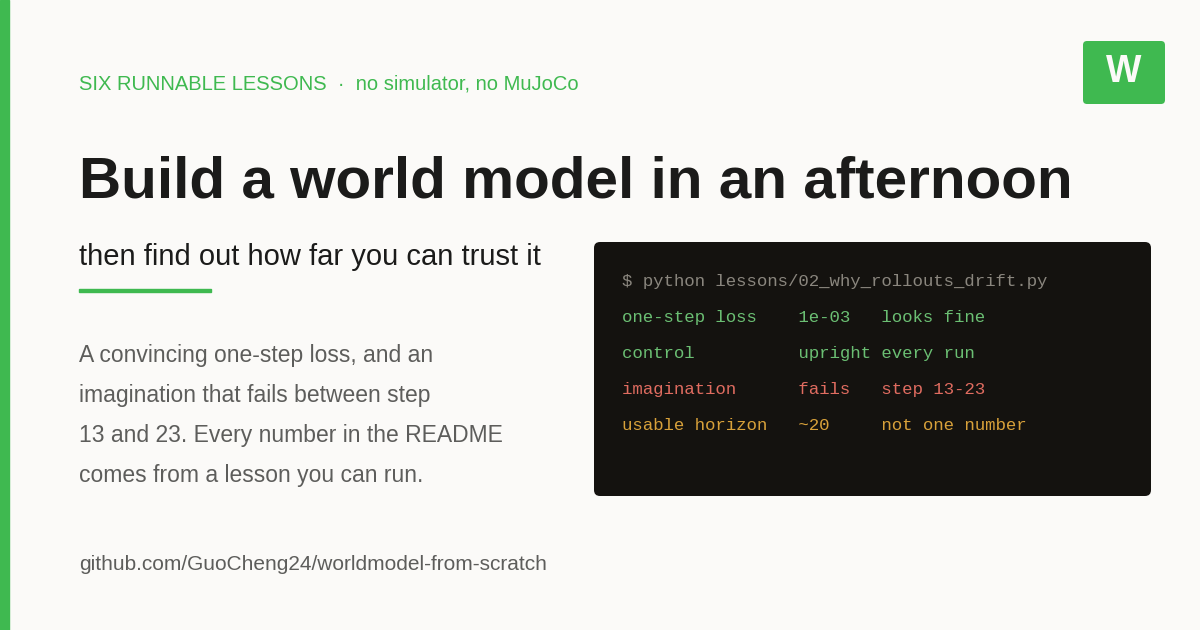
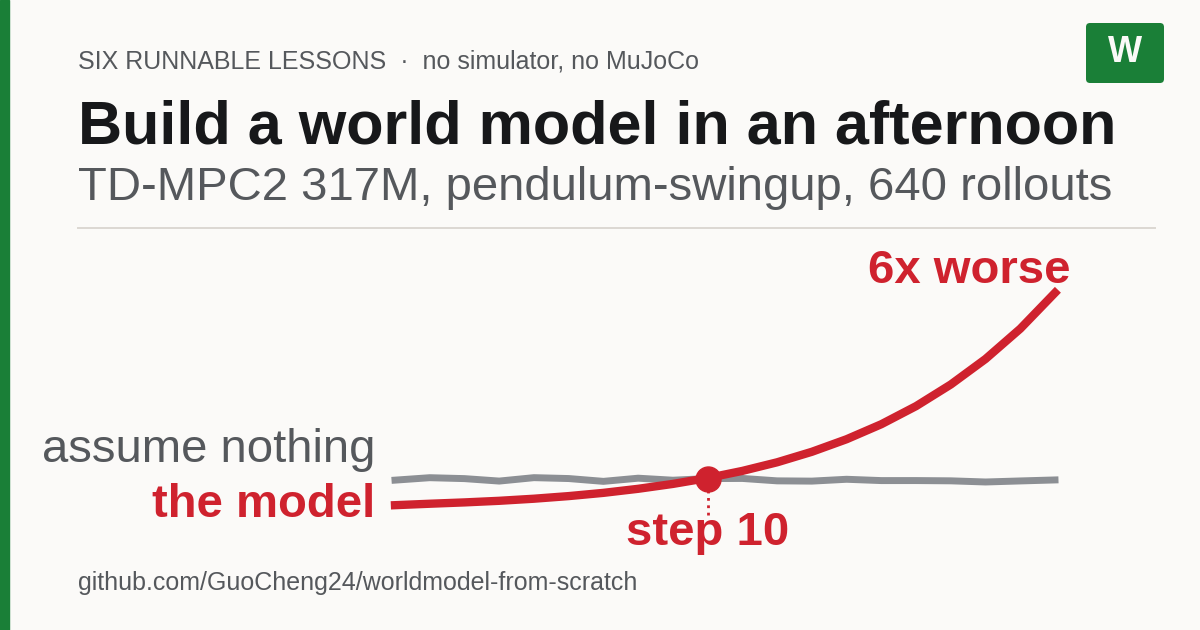
Put the lesson on the card: the curve that crosses the do-nothing baseline
The card was a screenshot of a lesson's output, unreadable at the 360 px a
Slack unfurl gives a card. It now draws what the lessons are about - a model
that starts far better than assuming nothing changes and is six times worse
than that by step twenty, crossing at step ten.

Both curves are medians over the 640 rollouts in
integrations/tdmpc2/results_mt30-317M.npz, which is committed here, so the
card is drawn from the same data as the README's figure rather than retyped.
The crossing step is found rather than written down, and the generator exits
if the model never becomes worse than the baseline, which would mean the
sentence on the card had stopped being true.

diff --git a/.github/assets/cardcheck.py b/.github/assets/cardcheck.py
@@ -1,0 +1,96 @@
+"""Objective acceptance tests for a social card, so "does it look good" stops being taste.
+
+A card is drawn at 1200x630 and unfurled at about 360 px wide in Slack, a scale of 0.30.
+Three things are then checkable rather than arguable:
+
+LEGIBILITY  Text a reader is meant to read must still be >= 10 px after that scale, i.e.
+            >= 33 px on the canvas. Anything smaller is texture by definition, and a card
+            that is mostly texture is mostly noise. The check reports how much of the ink
+            is in each class.
+
+CONTRAST    WCAG 2.1 relative luminance ratio for every text against the ground it sits
+            on. 4.5:1 for body, 3:1 for large text - the same bar a web page has to clear.
+
+FRAME       Nothing runs past the canvas, and nothing readable sits on a panel whose
+            colour is close to its own.
+"""
+UNFURL = 360 / 1200
+READABLE_PX = 10.0
+
+
+def _lum(c):
+    def f(v):
+        return v / 12.92 if v <= 0.03928 else ((v + 0.055) / 1.055) ** 2.4
+    return 0.2126 * f(c[0]) + 0.7152 * f(c[1]) + 0.0722 * f(c[2])
+
+
+def contrast(fg, bg):
+    """WCAG 2.1 contrast ratio between two matplotlib colours."""
+    from matplotlib.colors import to_rgb
+    a, b = _lum(to_rgb(fg)), _lum(to_rgb(bg))
+    hi, lo = max(a, b), min(a, b)
+    return (hi + 0.05) / (lo + 0.05)
+
+
+def audit(fig, ax, ground, panels=(), chrome=(), min_ratio=4.5, verbose=True):
+    """Return a list of problems. Empty list means the card passes.
+
+    ``chrome`` is the set of Text objects that carry no message - a kicker, a footer URL -
+    which nobody needs to read in a thumbnail. Everything else is the message and must clear
+    the legibility floor. The role cannot be inferred from geometry, so the caller declares
+    it; an earlier version measured legible *area* instead and was dominated by the length of
+    the footer, which made every card fail the harder it tried.
+
+    ``panels`` is a list of ``(x0, y0, x1, y1, colour)`` in canvas units, for regions whose
+    background is not ``ground``.
+    """
+    fig.canvas.draw()
+    r = fig.canvas.get_renderer()
+    W, H = (v * 100 for v in fig.get_size_inches())
+    floor = READABLE_PX / UNFURL
+    problems, chrome_area, message_area = [], 0.0, 0.0
+    chrome = set(id(t) for t in chrome)
+
+    for t in ax.texts:
+        s = t.get_text().strip()
+        if not s:
+            continue
+        box = t.get_window_extent(r)
+        size_px = t.get_fontsize()
+        area = box.width * box.height
+
+        if box.x1 > W - 20 or box.x0 < 0 or box.y1 > H or box.y0 < 0:
+            problems.append(f"off canvas: {s[:40]!r} ends at x={box.x1:.0f} of {W:.0f}")
+
+        bg = ground
+        cx, cy = (box.x0 + box.x1) / 2 / 100, (box.y0 + box.y1) / 2 / 100
+        for x0, y0, x1, y1, col in panels:
+            if x0 <= cx <= x1 and y0 <= cy <= y1:
+                bg = col
+        ratio = contrast(t.get_color(), bg)
+        need = 3.0 if size_px >= 24 else min_ratio
+        if ratio < need:
+            problems.append(
+                f"contrast {ratio:.1f}:1 (needs {need}:1) for {s[:36]!r} on {bg}")
+
+        if id(t) in chrome:
+            chrome_area += area
+            continue
+        message_area += area
+        if size_px < floor:
+            problems.append(
+                f"{size_px:.0f} px is {size_px * UNFURL:.1f} px at 360 - unreadable: {s[:40]!r}")
+
+    if message_area and chrome_area > 0.45 * message_area:
+        problems.append(
+            f"chrome is {100 * chrome_area / (chrome_area + message_area):.0f}% of the "
+            "text area; it should stay out of the way")
+    if verbose:
+        print(f"  [cardcheck] message text all >= {floor:.0f} px on canvas "
+              f"(= {READABLE_PX:.0f} px at 360); chrome "
+              f"{100 * chrome_area / max(chrome_area + message_area, 1):.0f}% of text area")
+        for p_ in problems:
+            print(f"  ! {p_}")
+        if not problems:
+            print("  [cardcheck] passes: legibility, contrast, frame")
+    return problems

diff --git a/.github/assets/make_social_preview.py b/.github/assets/make_social_preview.py
@@ -1,30 +1,67 @@
 """Generate the GitHub social-preview card (1200x630). Reproducible: python3 make_social_preview.py
 
-The previous card put its message in a block of 14 pt monospace. A social card is unfurled at about
-360 px wide in Slack, where that is grey noise, so the message is in the headline now and the
-terminal panel is texture beside it. Layout in lightcard.py next to this file.
+The card draws the lesson: a learned model that starts far better than assuming nothing changes,
+and is worse than that by the end of a twenty-step rollout. Two curves crossing is legible at the
+360 px a Slack unfurl gives a card; a block of terminal output is not.
+
+Data is integrations/tdmpc2/results_mt30-317M.npz, committed here - median over 640 episodes of
+TD-MPC2's own released 317M checkpoint on pendulum-swingup.
 """
 import pathlib
 import sys
 
-sys.path.insert(0, str(pathlib.Path(__file__).parent))
-from lightcard import draw  # noqa: E402
+import numpy as np
 
-out = draw(
+sys.path.insert(0, str(pathlib.Path(__file__).parent))
+from cardkit import SANS, card  # noqa: E402
+
+ROOT = pathlib.Path(__file__).resolve().parents[2]
+TASK = "pendulum-swingup"
+d = np.load(ROOT / "integrations/tdmpc2/results_mt30-317M.npz", allow_pickle=True)
+err = np.median(d[f"err__{TASK}"], axis=0)
+still = np.median(d[f"still__{TASK}"], axis=0)
+steps = np.arange(1, len(err) + 1)
+cross = int(steps[np.argmax(err > still)]) if (err > still).any() else None
+if cross is None:
+    raise SystemExit("the model never becomes worse than the still baseline; card copy is wrong")
+
+
+def chart(ax, accent):
+    x0, x1, y0, y1 = 3.95, 10.55, 1.15, 3.55
+    top = float(max(err.max(), still.max())) * 1.08
+
+    def X(s):
+        return x0 + (x1 - x0) * (s - 1) / (len(err) - 1)
+
+    def Y(v):
+        return y0 + (y1 - y0) * v / top
+
+    ax.plot([X(s) for s in steps], [Y(v) for v in still], color="#8c8f94", lw=5, zorder=3)
+    ax.plot([X(s) for s in steps], [Y(v) for v in err], color="#cf222e", lw=6, zorder=4)
+    ax.plot([X(cross)], [Y(still[cross - 1])], "o", ms=18, color="#cf222e", zorder=5)
+    ax.plot([X(cross), X(cross)], [y0, Y(still[cross - 1])], color="#cf222e", lw=2,
+            ls=":", zorder=2)
+
+    ax.text(X(1) - 0.20, Y(err[0]), "the model", fontsize=34, color="#cf222e",
+            fontweight="bold", family=SANS, ha="right", va="center")
+    ax.text(X(1) - 0.20, Y(still[0]) + 0.30, "assume nothing", fontsize=34, color="#55585c",
+            family=SANS, ha="right", va="center")
+    ax.text(X(cross), y0 - 0.30, f"step {cross}", fontsize=34, color="#cf222e",
+            fontweight="bold", family=SANS, ha="center")
+    ax.text(X(len(err)) + 0.16, Y(err[-1]), f"{err[-1] / still[-1]:.0f}x worse",
+            fontsize=34, fontweight="bold", color="#cf222e", family=SANS,
+            ha="right", va="bottom")
+
+
+out = card(
     out=str(pathlib.Path(__file__).parent / "social-preview.png"),
-    accent="#3fb950", badge="W", headline_size=42,
+    accent="#1a7f37", badge="W",
     kicker="SIX RUNNABLE LESSONS  ·  no simulator, no MuJoCo",
     headline="Build a world model in an afternoon",
-    subline="then find out how far you can trust it",
-    body=["A convincing one-step loss, and an",
-          "imagination that fails between step",
-          "13 and 23. Every number in the README",
-          "comes from a lesson you can run."],
-    panel=[("$ python lessons/02_why_rollouts_drift.py", "dim"),
-           ("one-step loss    1e-03   looks fine", "ok"),
-           ("control          upright every run", "ok"),
-           ("imagination      fails   step 13-23", "red"),
-           ("usable horizon   ~20     not one number", "warn")],
+    evidence=f"TD-MPC2 317M, {TASK}, 640 rollouts",
+    chart=chart,
     footer="github.com/GuoCheng24/worldmodel-from-scratch",
+    headline_size=44,
 )
-print(f"written {pathlib.Path(out).name} 1200x630")
+print(f"written {pathlib.Path(out).name}  crosses at step {cross}, "
+      f"ends {err[-1]:.2f} vs {still[-1]:.2f}")

diff --git a/.github/assets/cardkit.py b/.github/assets/cardkit.py
@@ -1,0 +1,84 @@
+"""A social card whose evidence is a chart of real numbers, not a screenshot.
+
+Why this replaced the previous template: measured with cardcheck, that one had 40% of its
+text area legible at the 360 px a Slack unfurl gives a card. The other 60% - four lines of
+grey prose and a mock terminal - was noise occupying half the canvas. What a reader gets in
+one second is a headline and a shape, so the card is a headline and a shape, and the shape
+is drawn from the repository's own results.
+
+    from cardkit import card
+    card(out=..., accent=..., badge="T", kicker=..., headline=...,
+         evidence="one sentence at a size people can read",
+         chart=lambda ax, c: ...,          # draws into canvas units, y in [0.9, 4.1]
+         footer="github.com/...")
+
+Every card is audited before it is written: legibility at unfurl scale, WCAG contrast, and
+nothing off the canvas. `card` raises if the audit fails, so a bad card is not produced.
+"""
+import pathlib
+import sys
+
+import matplotlib
+
+matplotlib.use("Agg")
+import matplotlib.pyplot as plt  # noqa: E402
+from matplotlib.patches import FancyBboxPatch  # noqa: E402
+
+sys.path.insert(0, str(pathlib.Path(__file__).resolve().parent))
+import cardcheck  # noqa: E402
+
+W, H = 12.0, 6.30
+BG, INK, MUTE, RULE = "#fbfaf8", "#17181a", "#55585c", "#dcd8d2"
+SANS = "Liberation Sans"
+
+# sizes chosen against cardcheck.READABLE_PX / UNFURL = 33 px on this canvas
+KICKER, HEADLINE, EVIDENCE, FOOTER = 18, 48, 34, 18
+
+
+def card(out, accent, badge, kicker, headline, evidence, chart, footer,
+         headline_size=HEADLINE, palette=None):
+    fig = plt.figure(figsize=(W, H), dpi=100)
+    ax = fig.add_axes([0, 0, 1, 1])
+    ax.set_xlim(0, W)
+    ax.set_ylim(0, H)
+    ax.axis("off")
+    ax.add_patch(plt.Rectangle((0, 0), W, H, color=BG))
+    ax.add_patch(plt.Rectangle((0, 0), 0.085, H, color=accent))
+
+    ax.add_patch(FancyBboxPatch((10.90, 5.51), 0.70, 0.52, boxstyle="round,pad=0.04",
+                                fc=accent, ec="none"))
+    t_badge = ax.text(11.25, 5.77, badge, fontsize=26, fontweight="bold", color=BG,
+                      family=SANS, ha="center", va="center")
+
+    t_kicker = ax.text(0.78, 5.62, kicker, fontsize=KICKER, color=MUTE, family=SANS)
+    ax.text(0.78, 4.86, headline, fontsize=headline_size, fontweight="bold",
+            color=INK, family=SANS)
+    ax.text(0.78, 4.30, evidence, fontsize=EVIDENCE, color=MUTE, family=SANS)
+    ax.plot([0.78, 11.55], [4.02, 4.02], color=RULE, lw=1.4, zorder=1)
+    # the chart owns everything between the rule and the footer: y in [0.85, 3.70]
+
+    chart(ax, accent)
+
+    t_footer = ax.text(0.78, 0.40, footer, fontsize=FOOTER, color=MUTE, family=SANS)
+
+    # sciglyph's own checker, for text-on-text. cardcheck does not do pairs, and the first
+    # card built without this had a bar label sitting on a row name while every other check
+    # reported clean.
+    try:
+        sys.path.insert(0, str(pathlib.Path.home() / "sciglyph"))
+        from sciglyph.layout import text_collisions
+        hits, _ = text_collisions(fig, ax)
+    except Exception:
+        hits = []
+
+    problems = cardcheck.audit(
+        fig, ax, ground=BG, chrome=(t_kicker, t_footer, t_badge),
+        panels=[(10.90, 5.51, 11.60, 6.03, accent)],   # the badge sits on its own colour
+        verbose=True)
+    problems += [f"text overlap {100 * f:.0f}%: {a!r} x {b!r}" for a, b, f in hits]
+    if problems:
+        raise ValueError("card fails its own acceptance test:\n  " + "\n  ".join(problems))
+
+    fig.savefig(out)
+    plt.close(fig)
+    return out
